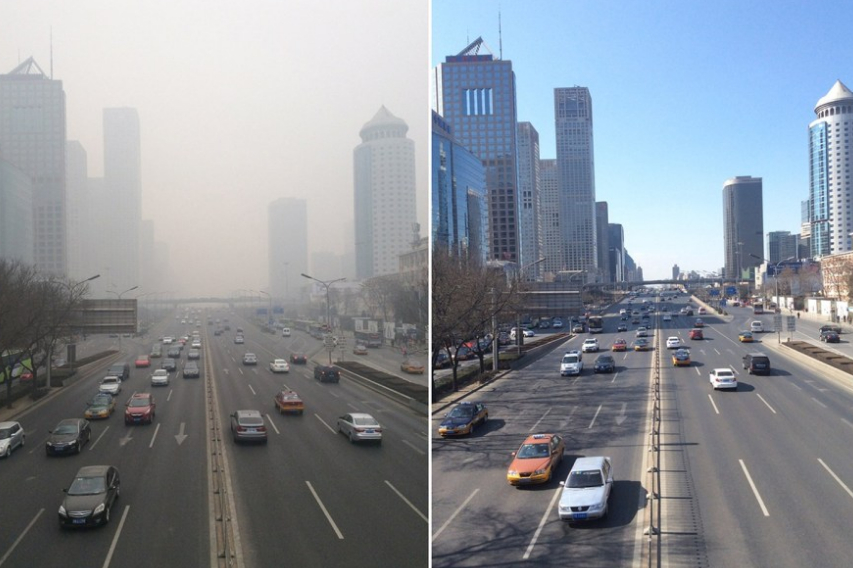
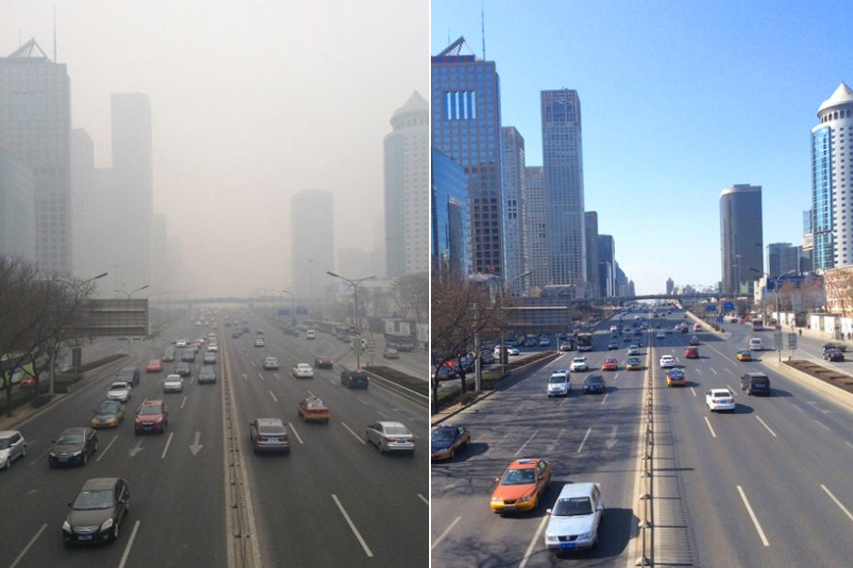
color adj

diff --git a/media/static/scripts/shanghai7.js b/media/static/scripts/shanghai7.js
@@ -416,5 +416,5 @@ function blueGraySkyAmountSlide() {
   document.getElementById("blueGraySkyAmount").value=blueGraySkyAmount;
   var left = 3 + 2.88 * value;
   document.getElementById("blueGraySkyAmount").style.marginLeft = left + "px";
-  document.getElementById("graySky").style.opacity = value/100;
+  document.getElementById("graySky").style.opacity = (100-value)/100;
 }
